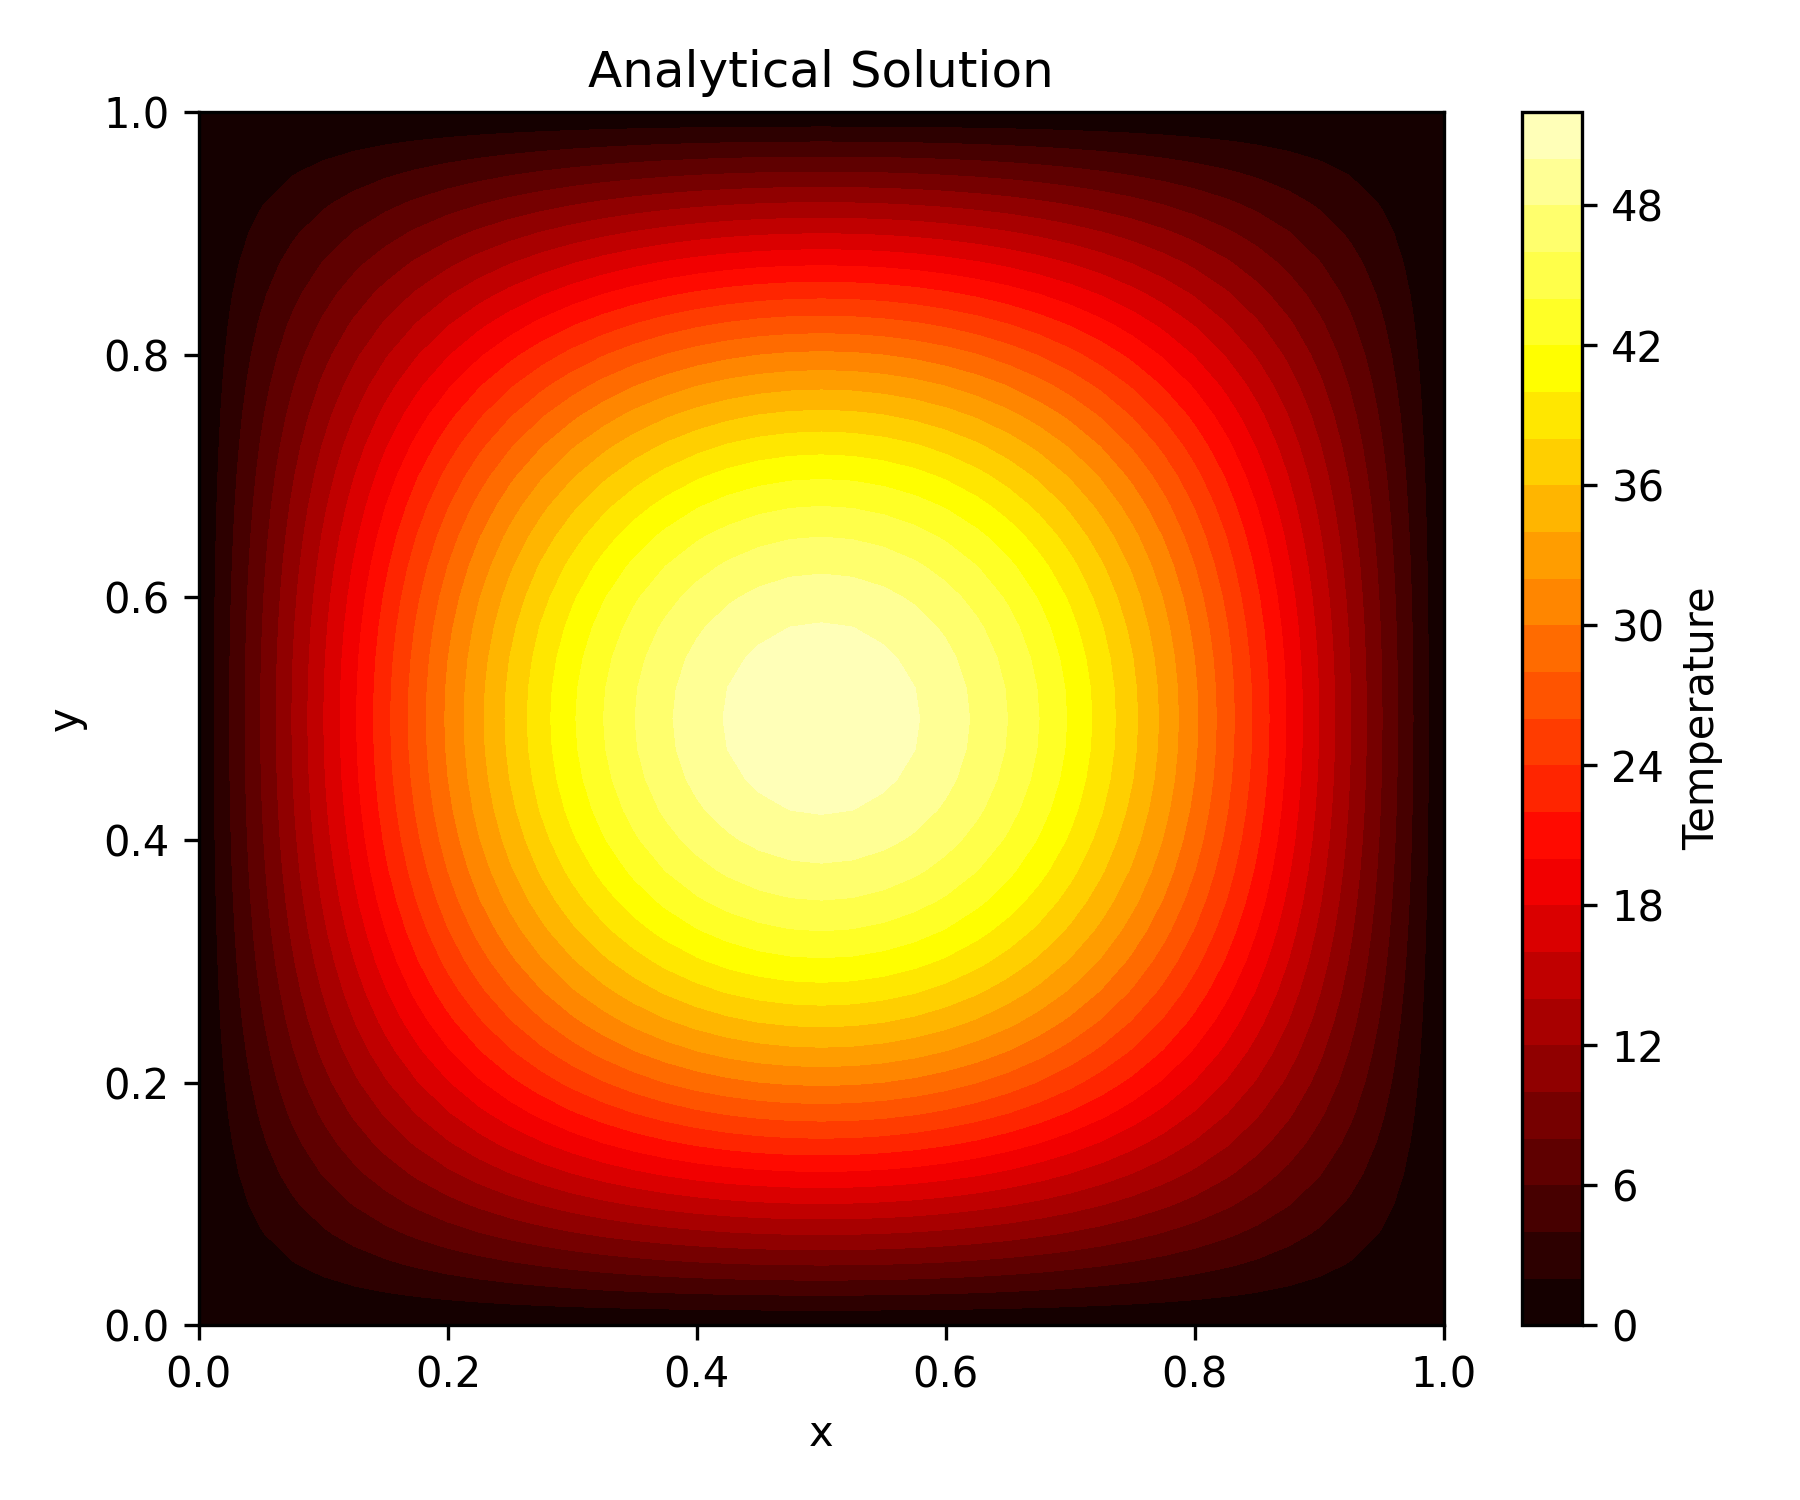
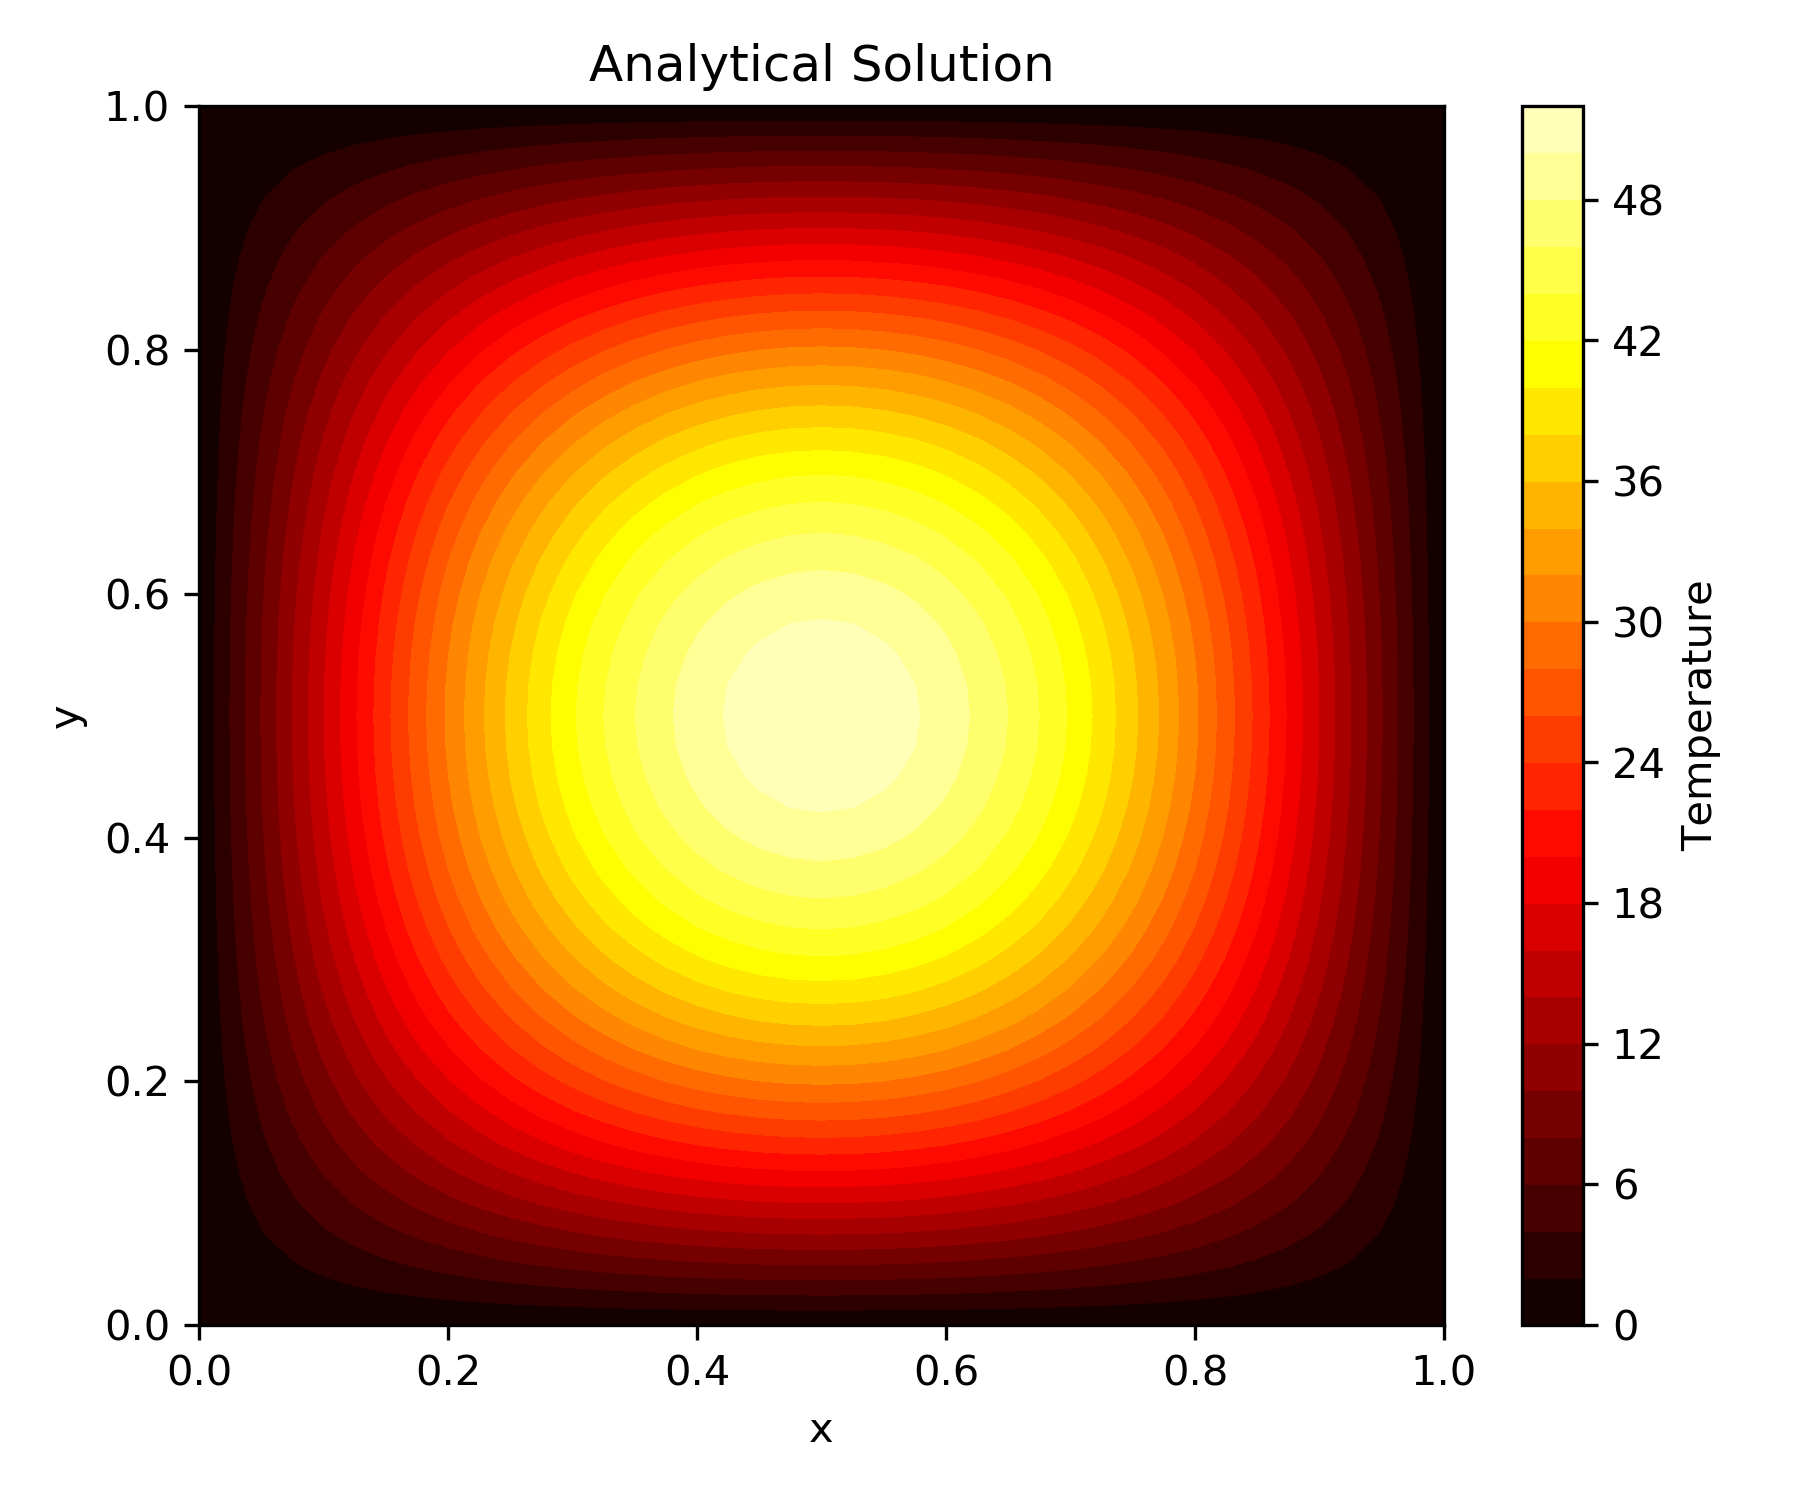
feat: add crank nicolson method to implicit_methods.py

diff --git a/implicit_methods.py b/implicit_methods.py
@@ -105,30 +105,45 @@ def crank_nicolson(
   # initial_x[int(len(initial_x)/2)] = 100
   # Create sparce matrix or coefficient matrix
   A:ndarray = zeros((int(N),int(N)))
+  B:ndarray = zeros((int(N),int(N)))
   b:ndarray = zeros(int(N))
-  fill_diagonal(A, (1 + 2*Lambda))
-  for i in range(len(A)): # rows
-    for j in range(len(A[i])): # columns
-      if A[i][j] == 1 + 2*Lambda:
-        if j>0: # Left
-          A[i][j-1] = - Lambda
-          b[i] += Tl
-        if j<(len(A[i]) - 1): # right
-          A[i][j+1] = - Lambda
-          b[i] += Tr
-        if j-nx>0: # bottom
-          A[i][j-nx] = - Lambda
-          b[i] += Tb
-        if j+nx<(len(A[i])-1): # top
-          A[i][j+nx] = - Lambda
-          b[i] += Tt
+  for k in range(N):
+    A[k,k] = 2*(1 + 2*Lambda)
+    B[k,k] = 2*(1 - 2*Lambda)
+
+    i:int = (k) % nx + 1
+    j:int = (k) // nx + 1
+
+    if i > 1: # Left
+      A[k, k-1] = - Lambda
+      B[k, k-1] = Lambda
+    else:
+      b[k] += Lambda*Tl
+
+    if i < nx: # Right
+      A[k, k+1] = - Lambda
+      B[k, k+1] = Lambda
+    else:
+      b[k] += Lambda*Tr
+
+    if j < ny: # Top
+      A[k, k+nx] = - Lambda
+      B[k, k+nx] = Lambda
+    else:
+      b[k-1] += Lambda*Tt
+
+    if j > 1: # Bottom
+      A[k, k-nx] = - Lambda
+      B[k, k-nx] = Lambda
+    else:
+      b[k] += Lambda*Tb
 
   # Run simulation
   n = t / delta_t # Number of time steps
   curr_x = initial_x
   for k in range(int(n)):
-    b_new = curr_x + b
-    next_x = solve(A, b)
+    b_new = B@curr_x + b
+    next_x = solve(A, b_new)
     curr_x = next_x
   curr_x = reshape(curr_x,(nx,ny))
   return curr_x

diff --git a/main.py b/main.py
@@ -82,7 +82,40 @@ def main():
   plt.title("Backward Euler Numerical Solution")
   plt.tight_layout()
   plt.savefig("Backward-Euler-Solution.png")
-  plt.show()
+  # plt.show()
+
+  # Run Crank Nicolson
+  b_euler = backward_Euler(
+      dx,
+      1e-5,
+      t_final,
+      alpha,
+      T_flat,
+      (0, Lx, 0, Ly),
+      (0, 0, 0, 0)
+  )
+
+  # Put interior solution back into full grid with zero boundaries
+  T_be_full = np.zeros((ny, nx))
+  T_be_full[1:-1, 1:-1] = b_euler
+
+  # Compare max temperature between methods
+  print("FTCS max:", np.max(T_num))
+  print("Backward Euler max:", np.max(T_be_full))
+  print("Exact max:", np.max(T_exact))
+
+  # Plot Backward Euler using contour map
+  vmin = 0
+  vmax = 55
+  plt.figure(figsize=(6, 5))
+  plt.contourf(X, Y, T_be_full, levels=30, cmap="hot", vmin=vmin, vmax=vmax)
+  plt.colorbar(label="Temperature")
+  plt.xlabel("x")
+  plt.ylabel("y")
+  plt.title("Crank Nicolson Numerical Solution")
+  plt.tight_layout()
+  plt.savefig("Crank-Nicolson-Solution.png")
+  # plt.show()
 
 
 if __name__ == "__main__":